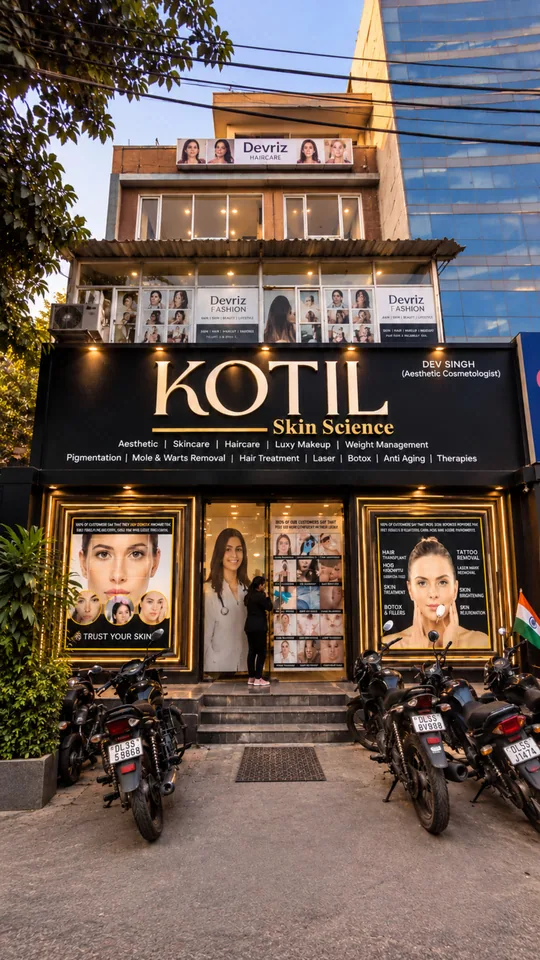
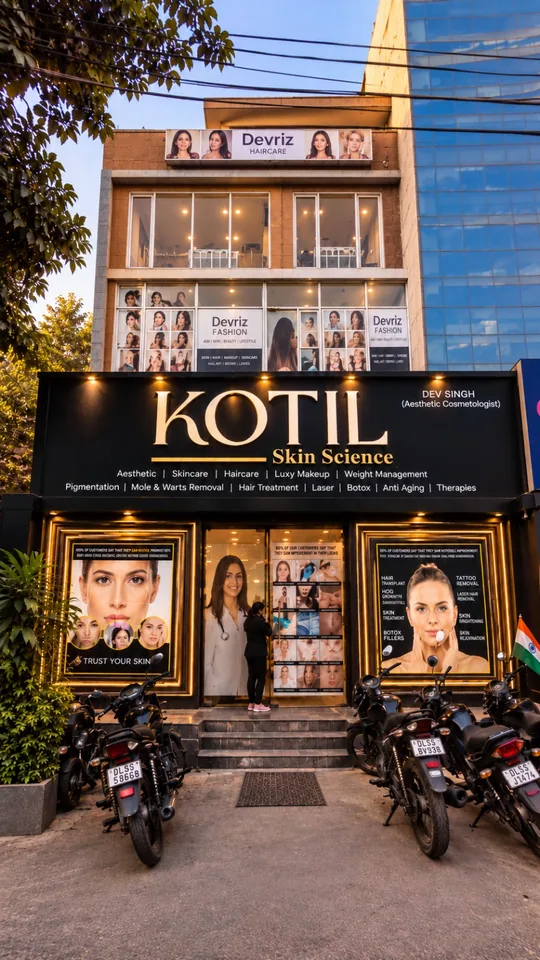
Upcoming batches: a poster for every programme, and a new frontage on phones
The Diploma in Cosmetology, the PG Diploma in Clinical Cosmetology and the
Fellowship in Aesthetic Surgery each have their own campaign poster now,
where two of them showed only their name on a plain card. The first
programme is renamed from "Diploma in Clinical Cosmetology" to "Diploma in
Cosmetology", as its poster names it; the callback form's course options,
and so the sheet's Course column, follow.

The PG Diploma's structured-data dates move to 10 to 14 October, as its new
poster prints them.

The frontage slide in the phone hero uses a new portrait photograph of the
building. The replaced images are kept in raw-assets/_unused/.

diff --git a/src/data.js b/src/data.js
@@ -277,7 +277,7 @@ export const COURSES = [
     title: 'Clinical Cosmetology',
     duration: '5 Days',
     daily: '6 months online learning',
-    starts: '25 to 29 October 2026, Delhi',
+    starts: '10 to 14 October 2026, Delhi',
     flag: 'Limited seats',
     award: 'PG Diploma in Clinical Cosmetology',
     summary:
@@ -536,13 +536,21 @@ export const TOPIC_DETAILS = {
 }
 
 export const UPCOMING = [
-  { course: 'Diploma in Clinical Cosmetology', img: null },
+  {
+    course: 'Diploma in Cosmetology',
+    img: 'posters/diploma-cosmetology',
+    alt: 'Campaign poster: Diploma in Cosmetology in Delhi, 20 to 24 October 2026, five days hands-on with six months of online learning, listing medicated facials, microblading, BB glow facial, HIFU and MNRF, PRP therapy and more',
+  },
   {
     course: 'PG Diploma in Clinical Cosmetology',
-    img: 'posters/pg-diploma-batch',
-    alt: 'Campaign poster: PG Diploma in Clinical Cosmetology, five days hands-on with six months of online learning, admissions open for the new Delhi batch',
+    img: 'posters/pg-diploma',
+    alt: 'Campaign poster: PG Diploma in Clinical Cosmetology in Delhi, 10 to 14 October 2026, five days hands-on with six months of online learning, listing dermal fillers, Botox, thread lift, laser treatments and more',
   },
-  { course: 'Fellowship in Aesthetic Surgery', img: null },
+  {
+    course: 'Fellowship in Aesthetic Surgery',
+    img: 'posters/aesthetic-surgery',
+    alt: 'Campaign poster: Aesthetic Surgery, a one-year programme with twelve days of onsite training in Delhi, 25 to 29 October 2026, open to MBBS, BDS, BAMS and BUMS graduates',
+  },
 ]
 
 // ---- past batches ------------------------------------------------------------

diff --git a/index.html b/index.html
@@ -88,8 +88,8 @@
             "@type": "CourseInstance",
             "courseMode": "blended",
             "courseWorkload": "P5D",
-            "startDate": "2026-10-25",
-            "endDate": "2026-10-29",
+            "startDate": "2026-10-10",
+            "endDate": "2026-10-14",
             "location": { "@type": "Place", "name": "Kotil Aesthetic Academy, Preet Vihar, New Delhi" }
           }
         },
